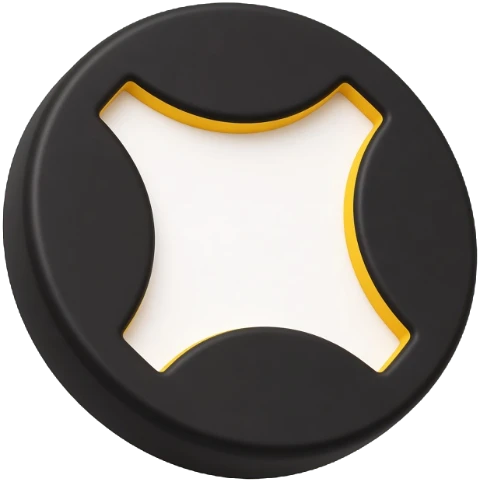
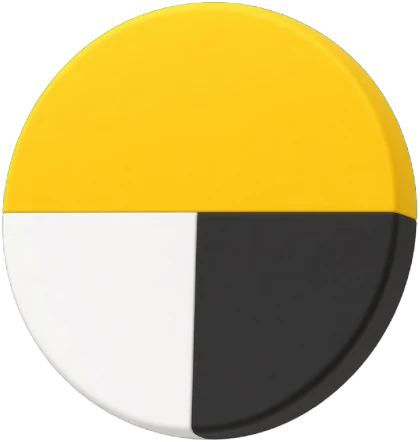
Phone: brand palette F5CE0D / 121519 / FFFFFF; round taxi badge on Drivers tile

diff --git a/client/src/styles/mobile.css b/client/src/styles/mobile.css
@@ -15,6 +15,45 @@
 .ptoast span { color: var(--c-muted); font-size: 14px; }
 @keyframes ptoast-in { from { transform: translate(-50%, -20px); opacity: 0; } }
 
+/* Фирменная палитра телефона: жёлтый F5CE0D, тёмный 121519, белый FFFFFF */
+@media (max-width: 1023px) {
+  :root {
+    --c-primary: #F5CE0D;
+    --c-focus: #F5CE0D;
+    --c-on-primary: #121519;
+    --c-ink: #121519;
+    --c-surface: #FFFFFF;
+    --c-active: #FFFFFF;
+    --plate-ink: #121519;
+    --plate-strip: #121519;
+  }
+  :root[data-theme='dark'] {
+    --c-bg: #121519;
+    --c-surface: #1B1F25;
+    --c-ink: #FFFFFF;
+    --c-muted: #9AA0A8;
+    --c-line: #262B32;
+    --c-line-strong: #333942;
+    --c-row-hover: #20252C;
+    --c-soft: #20252C;
+    --c-nav: #121519;
+    --c-active: #1B1F25;
+  }
+  [data-theme='dark'] .ct { --ct-box: #20252C; }
+  [data-theme='dark'] .ct:hover .ct__visual,
+  [data-theme='dark'] .chip:not(.chip--on),
+  [data-theme='dark'] .status,
+  [data-theme='dark'] .avatar,
+  [data-theme='dark'] .modal__close { background: #262B32; }
+  [data-theme='dark'] thead th,
+  [data-theme='dark'] .sel__panel { background: #1E2329; }
+  [data-theme='dark'] .ct__edit,
+  [data-theme='dark'] .sel__item--active { background: #2C323A; }
+  [data-theme='dark'] .chip--on,
+  [data-theme='dark'] .chip--on:hover { color: #121519; }
+  :root[data-theme='dark'] { --mf-bg: #1B1F25; --mf-card: #1B1F25; --mf-line: #333942; --mf-chip: #262B32; --mf-chip-hover: #2C323A; --mf-pop: #2C323A; --mf-hover: #363D46; }
+}
+
 @media (max-width: 1023px) {
   .topbar {
     height: calc(60px + env(safe-area-inset-top));
@@ -58,7 +97,7 @@
   .tabbar__search {
     flex: none; width: 64px; height: 64px; border: 0; border-radius: 50%;
     display: grid; place-items: center;
-    background: var(--c-primary); color: #21201F;
+    background: var(--c-primary); color: #121519;
     box-shadow: 0 8px 30px rgb(0 0 0 / .3);
     cursor: pointer; -webkit-tap-highlight-color: transparent;
     transition: transform .15s;
@@ -181,7 +220,7 @@
 .dsec__icon {
   flex: none; width: 46px; height: 46px; border-radius: 50%;
   display: grid; place-items: center; font-size: 20px;
-  background: var(--c-primary); color: #21201F;
+  background: var(--c-primary); color: #121519;
 }
 .dsec__icon--tg { background: #2AABEE; color: #FFFFFF; }
 .dsec__icon--map { background: #3DD68C; color: #0F3D26; }
@@ -193,7 +232,7 @@
 
 .dnet {
   display: grid; gap: 4px; margin: 0 0 16px; padding: 20px;
-  border-radius: 26px; background: var(--c-primary); color: #21201F;
+  border-radius: 26px; background: var(--c-primary); color: #121519;
 }
 .dnet--minus { background: var(--c-danger-solid); color: #FFFFFF; }
 .dnet__label { font-weight: 600; opacity: .8; }
@@ -206,8 +245,8 @@
 
 .pushcard {
   display: flex; align-items: center; gap: 12px; margin: 0 0 16px; padding: 14px;
-  border-radius: 22px; background: linear-gradient(135deg, #FFF4B8, #FFE26B); color: #21201F;
-  box-shadow: 0 8px 22px rgba(255, 184, 0, .22); text-align: left;
+  border-radius: 22px; background: linear-gradient(135deg, #FBE58A, #F5CE0D); color: #121519;
+  box-shadow: 0 8px 22px rgba(245, 206, 13, .22); text-align: left;
 }
 .pushcard--muted { background: var(--c-soft); color: var(--c-ink); box-shadow: none; }
 .pushcard__icon { flex: none; font-size: 34px; line-height: 1; }
@@ -217,14 +256,14 @@
 .pushcard__text > span { font-size: 14px; opacity: .8; }
 .pushcard__error { color: #B42318; font-weight: 700; opacity: 1 !important; }
 .pushcard { flex-wrap: wrap; }
-.pushcard__btn { flex: 1 1 100%; min-height: 48px; font-size: 16px; padding: 0 16px; border-radius: 14px; background: #21201F; border-color: #21201F; color: #FFFFFF; font-weight: 800; }
+.pushcard__btn { flex: 1 1 100%; min-height: 48px; font-size: 16px; padding: 0 16px; border-radius: 14px; background: #121519; border-color: #121519; color: #FFFFFF; font-weight: 800; }
 .pushguide { list-style: none; margin: 0 0 12px; padding: 0; display: grid; gap: 12px; }
 .pushguide li { display: flex; align-items: flex-start; gap: 12px; padding: 12px; border-radius: 16px; background: var(--c-soft); font-size: 16px; line-height: 1.45; }
-.pushguide__num { flex: none; display: grid; place-items: center; width: 30px; height: 30px; border-radius: 50%; background: #FFD60A; color: #21201F; font-weight: 800; }
+.pushguide__num { flex: none; display: grid; place-items: center; width: 30px; height: 30px; border-radius: 50%; background: #F5CE0D; color: #121519; font-weight: 800; }
 .pushguide__key { display: inline-flex; align-items: center; gap: 4px; padding: 1px 8px; border-radius: 8px; background: var(--c-surface, #fff); color: #0A84FF; vertical-align: middle; }
 .pushguide__arrow {
   position: fixed; left: 50%; bottom: 6px; z-index: 1001; transform: translateX(-50%);
-  font-size: 44px; line-height: 1; color: #FFD60A; text-shadow: 0 2px 10px rgba(0, 0, 0, .5);
+  font-size: 44px; line-height: 1; color: #F5CE0D; text-shadow: 0 2px 10px rgba(0, 0, 0, .5);
   animation: guideBounce 1s ease-in-out infinite; pointer-events: none;
 }
 @keyframes guideBounce { 0%, 100% { transform: translate(-50%, 0); } 50% { transform: translate(-50%, 10px); } }
@@ -248,8 +287,8 @@ html .earn-actions .earn-actions__out { background: #E53935; border-color: #E539
 .shero {
   position: relative; overflow: hidden; display: flex; align-items: center; gap: 8px;
   min-height: 168px; margin: 0 0 12px; padding: 22px 20px; box-sizing: border-box;
-  border-radius: 28px; background: linear-gradient(135deg, #FFE26B 0%, var(--c-primary) 55%, #FFB800 100%);
-  color: #21201F; box-shadow: 0 12px 28px rgba(255, 184, 0, .28);
+  border-radius: 28px; background: linear-gradient(135deg, #F8DC4A 0%, var(--c-primary) 55%, #E6BF00 100%);
+  color: #121519; box-shadow: 0 12px 28px rgba(245, 206, 13, .28);
 }
 .shero__text { position: relative; z-index: 1; display: grid; gap: 6px; flex: 1; min-width: 0; }
 .shero__label { font-size: 15px; font-weight: 700; opacity: .75; }
@@ -262,10 +301,10 @@ html .earn-actions .earn-actions__out { background: #E53935; border-color: #E539
 .shero__btn {
   width: 100%; min-height: 60px; margin: 0 0 16px; gap: 10px;
   border-radius: 20px; font-size: 18px; font-weight: 800;
-  background: #21201F; color: #FFFFFF; border-color: #21201F;
+  background: #121519; color: #FFFFFF; border-color: #121519;
 }
 .shero__btn > span { font-size: 26px; line-height: 1; font-weight: 600; }
-[data-theme='dark'] .shero__btn { background: #FFFFFF; color: #21201F; border-color: #FFFFFF; }
+[data-theme='dark'] .shero__btn { background: #FFFFFF; color: #121519; border-color: #FFFFFF; }
 
 .elist { list-style: none; display: grid; gap: 10px; margin: 16px 0 0; padding: 0; }
 .eitem {
@@ -325,7 +364,7 @@ input[type='time'].field__input::-webkit-date-and-time-value { text-align: left;
   transition: transform .12s ease, background .15s ease;
 }
 .qchip:active { transform: scale(.92); }
-.qchip--on { background: var(--c-primary); border-color: var(--c-primary); color: #21201F; }
+.qchip--on { background: var(--c-primary); border-color: var(--c-primary); color: #121519; }
 
 .kmbadge {
   margin-top: 10px; padding: 12px 14px; border-radius: 16px;
@@ -382,7 +421,7 @@ input[type='time'].field__input::-webkit-date-and-time-value { text-align: left;
 .stoast {
   position: fixed; left: 50%; bottom: calc(110px + env(safe-area-inset-bottom)); z-index: 300;
   display: flex; align-items: center; gap: 10px; padding: 14px 20px; border-radius: 999px;
-  background: #21201F; color: #FFFFFF; font-weight: 700; white-space: nowrap;
+  background: #121519; color: #FFFFFF; font-weight: 700; white-space: nowrap;
   box-shadow: 0 12px 30px rgba(0, 0, 0, .3); transform: translateX(-50%);
   animation: toastIn .4s cubic-bezier(.3, 1.4, .5, 1) both;
 }
@@ -442,7 +481,7 @@ body:has(.modal) .tabbar { display: none; }
 .kgauge__text span { color: var(--c-muted); font-size: 14px; font-weight: 600; }
 
 .xhead {
-  --k: #FFD000; display: flex; align-items: center; gap: 14px; margin: 0 0 16px; padding: 16px;
+  --k: #F5CE0D; display: flex; align-items: center; gap: 14px; margin: 0 0 16px; padding: 16px;
   border-radius: 22px; background: linear-gradient(135deg, color-mix(in srgb, var(--k) 28%, transparent), color-mix(in srgb, var(--k) 8%, transparent));
   border: 2px solid color-mix(in srgb, var(--k) 70%, transparent); transition: border-color .25s ease, background .25s ease;
 }

diff --git a/client/src/components/ThemeToggle.jsx b/client/src/components/ThemeToggle.jsx
@@ -11,7 +11,7 @@ export default function ThemeToggle({ className = '' }) {
 
   useEffect(() => {
     document.documentElement.dataset.theme = theme;
-    document.querySelector('meta[name="theme-color"]')?.setAttribute('content', theme === 'dark' ? '#1C1C1C' : '#F2F3F5');
+    document.querySelector('meta[name="theme-color"]')?.setAttribute('content', theme === 'dark' ? '#121519' : '#F2F3F5');
   }, [theme]);
 
   function toggle() {
